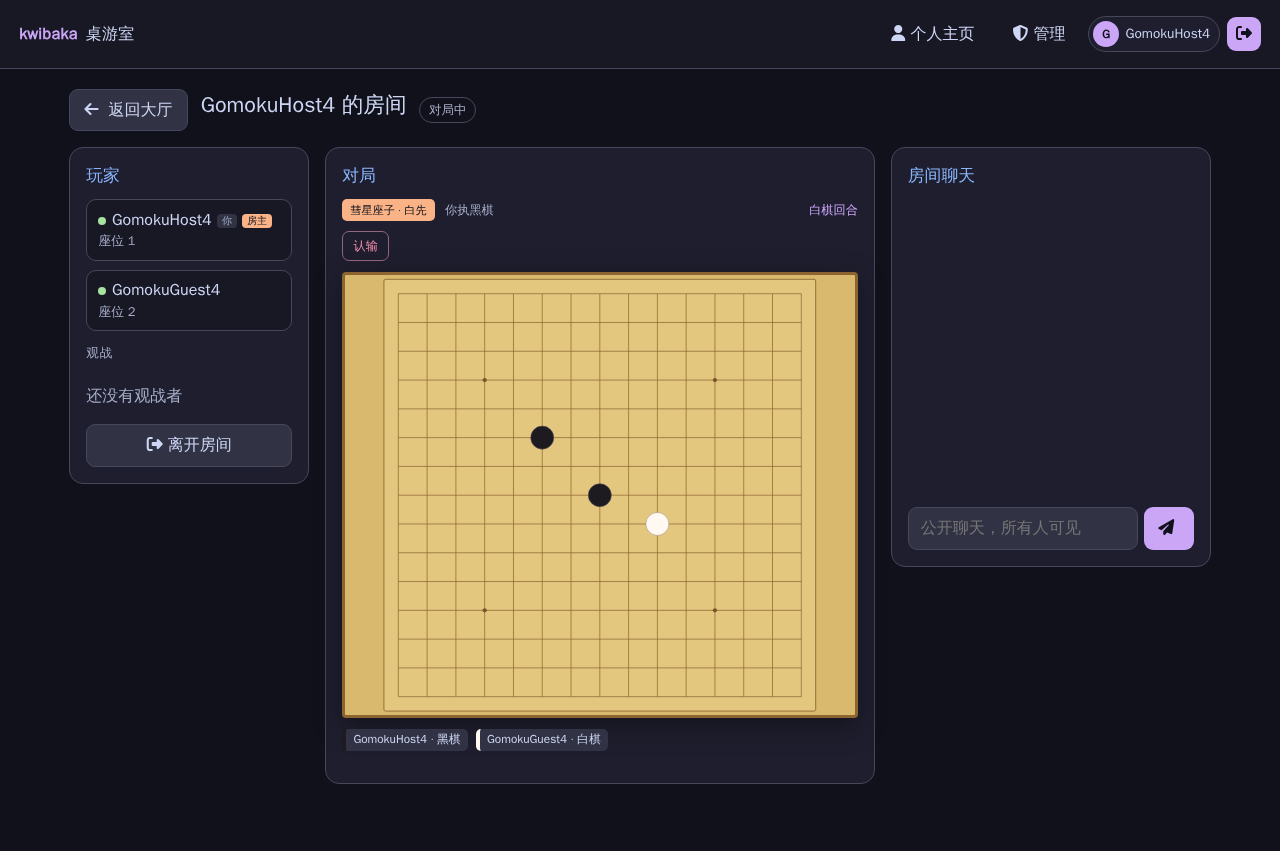
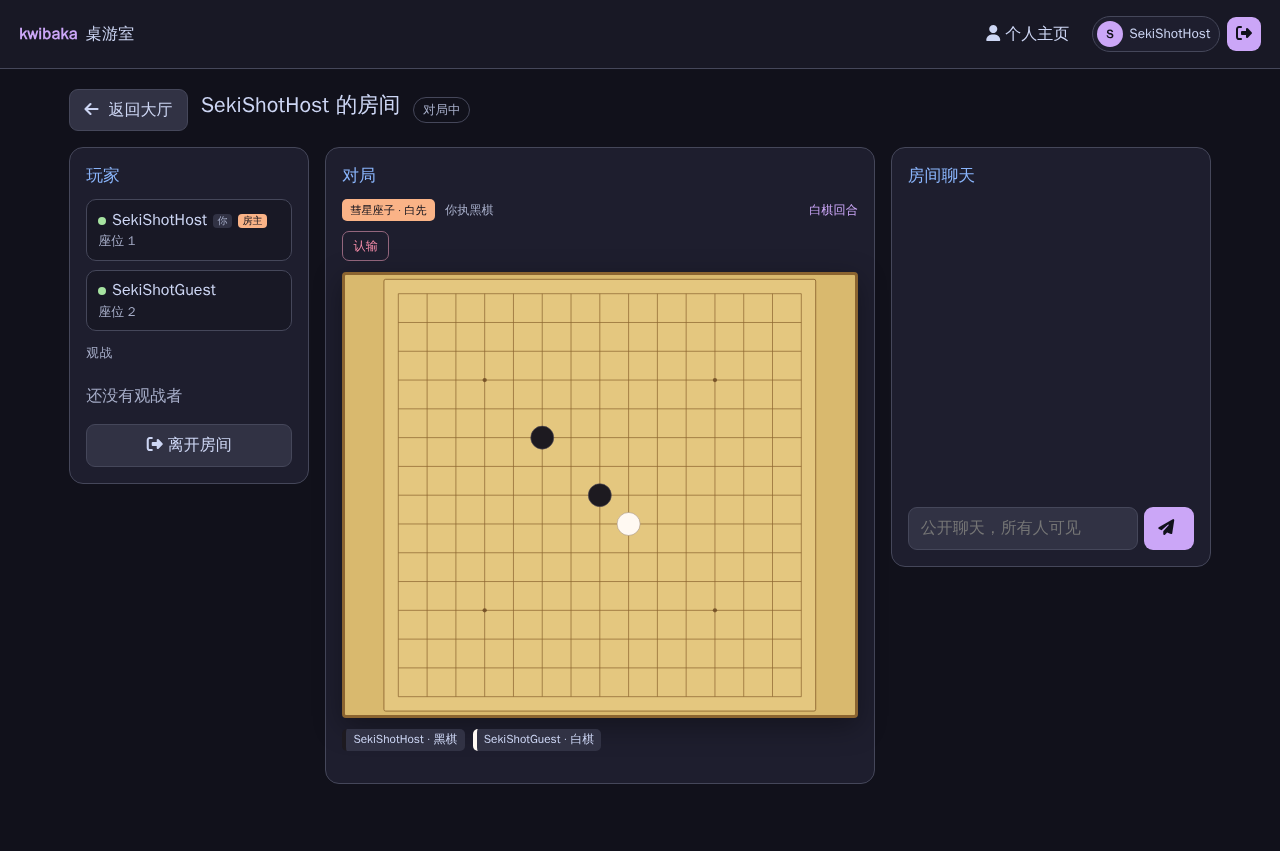
feat: add forbidden and RIF gomoku variants

diff --git a/tests/gomoku.test.ts b/tests/gomoku.test.ts
@@ -2,10 +2,13 @@ import assert from 'node:assert/strict';
 import test from 'node:test';
 import {
   GomokuMatch,
+  OPENINGS,
+  applyOpening,
   boardSize,
   drawOutcome,
   findWin,
   firstTurn,
+  forbiddenPoints,
   initialBoard,
 } from '../src/games/gomoku/game.js';
 import type { GameToPlatform, PlatformToGame, Seat } from '../src/protocol/protocol.js';
@@ -64,7 +67,7 @@ test('seki gomoku uses 15x15, has the comet stones and white moves first', () =>
   const board = initialBoard('seki');
   assert.equal(board.length, 225);
   assert.equal(board[7 * 15 + 7], 'black');
-  assert.equal(board[6 * 15 + 9], 'white');
+  assert.equal(board[6 * 15 + 8], 'white');
   assert.equal(board[9 * 15 + 5], 'black');
   assert.equal(board.filter((cell) => cell === 'black').length, 2);
   assert.equal(board.filter((cell) => cell === 'white').length, 1);
@@ -152,4 +155,66 @@ test('either player can resign in gomoku', () => {
   const result = sent.findLast((message) => message.t === 'result');
   assert.ok(result && result.t === 'result');
   assert.deepEqual((result.result as { winners: string[] }).winners, ['host']);
+});
+
+test('all 26 specified openings can be applied and lead to white move 4', () => {
+  assert.equal(OPENINGS.length, 26);
+  assert.equal(new Set(OPENINGS.map((opening) => opening.name)).size, 26);
+  for (const opening of OPENINGS) {
+    const applied = applyOpening(Array(225).fill(null), 15, opening.name);
+    assert.ok(applied, opening.name);
+    assert.equal(applied!.board.filter((cell) => cell === 'black').length, 2, opening.name);
+    assert.equal(applied!.board.filter((cell) => cell === 'white').length, 1, opening.name);
+  }
+  const { match, sent } = createMatch('forbidden');
+  match.handle({ v: 1, t: 'action', matchId: 'g1', playerId: 'host', seq: 1, actionId: 'o1', action: { type: 'opening', name: '花月' } });
+  const view = lastView(sent, 'host');
+  assert.equal(view.phase, 'playing');
+  assert.equal(view.turn, 'white');
+  assert.equal(view.openingName, '花月');
+});
+
+test('only-forbidden mode plays white 4 normally and rejects black forbidden points', () => {
+  const { match, sent } = createMatch('forbidden');
+  match.handle({ v: 1, t: 'action', matchId: 'g1', playerId: 'host', seq: 1, actionId: 'o1', action: { type: 'opening', name: '花月' } });
+  match.handle({ v: 1, t: 'action', matchId: 'g1', playerId: 'guest', seq: 2, actionId: 'w4', action: { type: 'place', index: 0 } });
+  const after = lastView(sent, 'host');
+  assert.equal(after.phase, 'playing');
+  assert.equal(after.turn, 'black');
+  const board = Array(225).fill(null);
+  for (let c = 0; c < 5; c += 1) board[c] = 'black';
+  assert.ok(forbiddenPoints(board, 15).includes(5));
+  const blackView = lastView(sent, 'host');
+  assert.equal(Array.isArray(blackView.forbidden), true);
+});
+
+test('RIF mode performs opening, three-move swap and five-move two choices', () => {
+  const { match, sent } = createMatch('rif');
+  match.handle({ v: 1, t: 'action', matchId: 'g1', playerId: 'host', seq: 1, actionId: 'o1', action: { type: 'opening', name: '花月' } });
+  assert.equal(lastView(sent, 'host').phase, 'swap');
+  // The guest is the tentative White and chooses to swap.
+  match.handle({ v: 1, t: 'action', matchId: 'g1', playerId: 'guest', seq: 2, actionId: 'swap', action: { type: 'swap' } });
+  const hostView = lastView(sent, 'host');
+  const guestView = lastView(sent, 'guest');
+  assert.equal(hostView.phase, 'playing');
+  assert.equal(hostView.you.color, 'white');
+  assert.equal(guestView.you.color, 'black');
+  assert.equal(hostView.turn, 'white');
+  // New White (host) plays white 4.
+  match.handle({ v: 1, t: 'action', matchId: 'g1', playerId: 'host', seq: 3, actionId: 'w4', action: { type: 'place', index: 0 } });
+  const offer = lastView(sent, 'guest');
+  assert.equal(offer.phase, 'fifth-offer');
+  assert.equal(offer.turn, 'black');
+  // New Black (guest) offers two points.
+  match.handle({ v: 1, t: 'action', matchId: 'g1', playerId: 'guest', seq: 4, actionId: 'f5', action: { type: 'fifth-propose', indices: [200, 201] } });
+  const choose = lastView(sent, 'host');
+  assert.equal(choose.phase, 'fifth-choose');
+  assert.deepEqual(choose.fifthOptions, [200, 201]);
+  // White chooses one; the other is not placed.
+  match.handle({ v: 1, t: 'action', matchId: 'g1', playerId: 'host', seq: 5, actionId: 'f5c', action: { type: 'fifth-choose', index: 201 } });
+  const finalView = lastView(sent, 'host');
+  assert.equal(finalView.phase, 'playing');
+  assert.equal(finalView.turn, 'white');
+  assert.equal(finalView.board[201], 'black');
+  assert.equal(finalView.board[200], null);
 });

diff --git a/web/rules/gomoku.html b/web/rules/gomoku.html
@@ -7,7 +7,7 @@ p,li{font-size:.9rem;color:#bac2de}strong{color:#cdd6f4}.muted{color:#9399b2;fon
 code{color:#f5c2e7}
 </style></head><body>
 <h1>五子棋</h1>
-<p class="muted">2 人 · 完全信息 · 观战者可发言 · 目前无禁手</p>
+<p class="muted">2 人 · 完全信息 · 观战者可发言</p>
 
 <h2>五子棋（无禁手）</h2>
 <ul>
@@ -17,7 +17,7 @@ code{color:#f5c2e7}
 <li>任意一方可以认输。</li>
 </ul>
 
-<h2>五子棋（无禁手·彗星座子）</h2>
+<h2>五子棋（无禁手，座子）</h2>
 <ul>
 <li>棋盘 <strong>15×15</strong>，无禁手。</li>
 <li>开局座子：黑棋在 <strong>H8</strong>，白棋在 <strong>J7</strong>，黑棋在 <strong>F10</strong>；座子之后由<strong>白棋先下</strong>。</li>
@@ -26,6 +26,25 @@ code{color:#f5c2e7}
 <li>任意一方可以认输。</li>
 </ul>
 
+
+<h2>五子棋（仅禁手）</h2>
+<ul>
+<li>棋盘 <strong>15×15</strong>，黑先，无座子。</li>
+<li><strong>指定开局</strong>：开局时黑方从 26 种职业开局中选择一种，前三手自动摆好；之后白方下第 4 手。</li>
+<li>黑棋禁手：长连（六子及以上）、双四、双三。黑棋落在禁手点会被拒绝；白棋无禁手。</li>
+<li>黑棋正好连成五子获胜；白棋连成五子或更多获胜。</li>
+<li>黑棋视角有“禁手提示”开关，用红叉显示当前禁手点；白棋的提示按钮不可用。</li>
+</ul>
+
+<h2>五子棋（RIF 完全规则）</h2>
+<ul>
+<li>棋盘 <strong>15×15</strong>，在“仅禁手”基础上增加三手交换和五手两打。</li>
+<li><strong>指定开局</strong>：黑方从 26 种开局中选一种，摆好前三手。</li>
+<li><strong>三手交换</strong>：白方可以选择交换黑白执子；交换后由新的白方下第 4 手。</li>
+<li><strong>五手两打</strong>：白方下完第 4 手后，黑方选择两个不同的空点作为第 5 手打点；白方选择保留其中一个，另一个不落子；然后白方下第 6 手。</li>
+<li>黑棋禁手、提示开关、胜负规则同“仅禁手”。</li>
+</ul>
+
 <h2>操作</h2>
-<p>轮到你时点击空交叉点落子；点击“认输”结束对局。当前版本不提供下一步提示。观战者可以看到完整棋盘并发言。</p>
+<p>轮到你时点击空交叉点落子；点击“认输”结束对局。观战者可以看到完整棋盘并发言。坐标列从 A 到 H 后直接跳到 J（不使用 I）。无禁手和座子玩法不提供提示；仅禁手和 RIF 仅对黑棋提供禁手提示。</p>
 </body></html>

diff --git a/web/style.css b/web/style.css
@@ -1819,3 +1819,68 @@ button.gomoku-button {
     width: 100%;
   }
 }
+
+/* Gomoku opening / fifth / forbidden UI */
+.gomoku-opening {
+  display: flex;
+  align-items: center;
+  gap: 0.5rem;
+  flex-wrap: wrap;
+  width: 100%;
+  padding: 0.45rem 0.55rem;
+  border: 1px solid var(--line);
+  border-radius: 8px;
+  background: var(--surface);
+}
+
+.gomoku-opening-select {
+  min-width: 8rem;
+  padding: 0.35rem 0.45rem;
+  color: var(--text);
+  background: var(--mantle);
+  border: 1px solid var(--line);
+  border-radius: 6px;
+}
+
+.gomoku-opening-name {
+  margin: 0;
+  color: var(--muted);
+  font-size: 0.75rem;
+}
+
+button.gomoku-button.primary {
+  color: var(--bg);
+  background: var(--accent);
+  border-color: var(--accent);
+}
+
+button.gomoku-button.active {
+  color: var(--bg);
+  background: var(--peach);
+  border-color: var(--peach);
+}
+
+button.gomoku-button:disabled {
+  cursor: not-allowed;
+  opacity: 0.45;
+}
+
+.gomoku-forbidden line {
+  stroke: #e64553;
+  stroke-width: 0.055;
+  pointer-events: none;
+}
+
+.gomoku-fifth {
+  fill: none;
+  stroke: #f9e2af;
+  stroke-width: 0.06;
+  pointer-events: none;
+}
+
+.gomoku-fifth-selected {
+  fill: none;
+  stroke: #f9e2af;
+  stroke-width: 0.1;
+  pointer-events: none;
+}

diff --git a/src/platform/game-catalog.ts b/src/platform/game-catalog.ts
@@ -4,7 +4,7 @@ import { ICE_CHAOS_GAME, ICE_GAME } from '../games/ice/metadata.js';
 import { MOCK_GAME } from '../games/mock/metadata.js';
 import { REVERSI_GAME } from '../games/reversi/metadata.js';
 import { ALENDO_GAME } from '../games/alendo/metadata.js';
-import { GOMOKU_GAME, GOMOKU_SEKI_GAME } from '../games/gomoku/metadata.js';
+import { GOMOKU_FORBIDDEN_GAME, GOMOKU_GAME, GOMOKU_RIF_GAME, GOMOKU_SEKI_GAME } from '../games/gomoku/metadata.js';
 import type { GameId, GameMetadata } from '../protocol/protocol.js';
 
 export interface GameCatalogEntry {
@@ -42,6 +42,20 @@ export const GAME_CATALOG: GameCatalogEntry[] = [
   },
   {
     metadata: GOMOKU_SEKI_GAME,
+    worker: {
+      src: path.resolve(root, 'src/games/gomoku/worker.ts'),
+      dist: path.resolve(root, 'dist/games/gomoku/worker.js'),
+    },
+  },
+  {
+    metadata: GOMOKU_FORBIDDEN_GAME,
+    worker: {
+      src: path.resolve(root, 'src/games/gomoku/worker.ts'),
+      dist: path.resolve(root, 'dist/games/gomoku/worker.js'),
+    },
+  },
+  {
+    metadata: GOMOKU_RIF_GAME,
     worker: {
       src: path.resolve(root, 'src/games/gomoku/worker.ts'),
       dist: path.resolve(root, 'dist/games/gomoku/worker.js'),

diff --git a/web/app.js b/web/app.js
@@ -284,7 +284,7 @@ function openRules(gameId) {
         ? '/rules/reversi.html'
         : gameId === 'alendo'
           ? '/rules/alendo.html'
-          : gameId === 'gomoku' || gameId === 'gomoku-seki'
+          : gameId === 'gomoku' || gameId === 'gomoku-seki' || gameId === 'gomoku-forbidden' || gameId === 'gomoku-rif'
             ? '/rules/gomoku.html'
             : '/rules/mock-ttt.html';
   $('rules-title').textContent =
@@ -294,7 +294,7 @@ function openRules(gameId) {
         ? '黑白棋 · 规则'
         : gameId === 'alendo'
           ? '阿尔林铎棋 · 规则'
-          : gameId === 'gomoku' || gameId === 'gomoku-seki'
+          : gameId === 'gomoku' || gameId === 'gomoku-seki' || gameId === 'gomoku-forbidden' || gameId === 'gomoku-rif'
             ? '五子棋 · 规则'
             : '规则';
   $('rules-frame').src = page;

diff --git a/README.md b/README.md
@@ -32,9 +32,13 @@ process, and each game implementation is versioned in its own git repository.
 - 五子棋 / Gomoku:
   - 11×11 free-style, no forbidden moves, black first; a full-board draw is a
     white win.
-  - 15×15 free-style comet-seki setup (black H8, white J7, black F10), white first; a
-    full-board draw is a loss for both.
-  - No next-move hint UI.
+  - 15×15 free-style comet-seki setup (black H8, white J7, black F10), white
+    first; a full-board draw is a loss for both.
+  - 15×15 specified-opening forbidden mode: black-only overline/double-four/
+    double-three forbidden points with a black-only hint toggle.
+  - 15×15 RIF: specified opening, black forbidden points, three-move swap and
+    five-move two choices.
+  - Coordinates skip I (A-H, J-P). Free/seki have no hint UI.
 - Mock tic-tac-toe worker as the reference implementation.
 - Self-contained FontAwesome Free assets, no CDN dependency.
 
@@ -47,6 +51,8 @@ process, and each game implementation is versioned in its own git repository.
 ![五子棋](docs/assets/gomoku.png)
 
 ![彗星座子五子棋](docs/assets/gomoku-seki.png)
+
+![RIF 五子棋](docs/assets/gomoku-rif.png)
 
 ![Profile](docs/assets/profile.png)
 
@@ -77,7 +83,7 @@ src/games/ice/       git submodule: kwibaka-game-ice repository
 src/games/mock/      git submodule: kwibaka-game-mock-ttt repository
 src/games/reversi/   git submodule: kwibaka-game-reversi repository
 src/games/alendo/    git submodule: kwibaka-game-alendo repository
-src/games/gomoku/    git submodule: kwibaka-game-gomoku repository (two catalog ids)
+src/games/gomoku/    git submodule: kwibaka-game-gomoku repository (four catalog ids)
 src/cli/             administrator bootstrap CLI
 web/                 platform shell, styles, rules pages, generated game UI
 scripts/             sync-games and ice fuzzer

diff --git a/docs/en/interfaces.md b/docs/en/interfaces.md
@@ -196,8 +196,11 @@ the same worker. `reversi` and `alendo` are two-player complete-information game
 color is a room setting, and `spectatorChat` is enabled. `alendo` uses a
 96-triangle board from Hypergryph's 《来自星尘》 and always shows legal-move
 hints. The `gomoku` / `gomoku-seki` catalog entries share one engine: 11×11
-free-style (draw -> white win) and 15×15 comet-seki with black H8 / white J7 / black F10
-and white to move (draw -> both lose). Gomoku has no hint UI.
+free-style (draw -> white win) and 15×15 comet-seki with black H8 / white J7 /
+black F10 and white to move (draw -> both lose). `gomoku-forbidden` adds
+specified openings and black-only overcalls (overline/double-four/double-three)
+with a black-only hint toggle; `gomoku-rif` adds three-move swap and five-move
+two choices. Free/seki have no hint UI; coordinates use A-H, J-P (I skipped).
 
 ### Versioning
 

diff --git a/docs/zh-CN/interfaces.md b/docs/zh-CN/interfaces.md
@@ -185,7 +185,10 @@ src/games/<name>/
 和 `ice-chaos`（混沌），两者指向同一个 worker。`reversi` 与 `alendo` 是双人完全信息游戏，房主执子属于房间设置，观战聊天开启。
 `alendo` 使用 Hypergryph《来自星尘》的 96 格三角棋盘，并强制显示合法落点提示。
 `gomoku` / `gomoku-seki` 共用一个引擎：11×11 无禁手（平局白胜）和 15×15
-彗星座子（黑 H8、白 J7、黑 F10，白先；平局双方均败）。五子棋不提供提示 UI。
+彗星座子（黑 H8、白 J7、黑 F10，白先；平局双方均败）。`gomoku-forbidden`
+增加指定开局和黑棋禁手（长连/双四/双三），并只给黑棋提供可开关的禁手提示；
+`gomoku-rif` 再增加三手交换和五手两打。无禁手/座子不提供提示；坐标跳过 I
+（A-H、J-P）。
 
 ### 版本管理
 

diff --git a/docs/zh-CN/testing.md b/docs/zh-CN/testing.md
@@ -26,7 +26,8 @@ npm test
 - 黑白棋合法落子/翻子、房主执子分配、完整对局终局、认输，以及真实
   platform/worker 集成测试；
 - 阿尔林铎棋 96 格三角棋盘/条带、六枚座子、房主执子、随机完整对局终局、认输；
-- 五子棋 11×11/15×15、座子与白先、五连/长连判定、平局规则和认输。
+- 五子棋 11×11/15×15、座子与白先、五连/长连判定、平局规则和认输；
+- 指定开局、黑棋禁手点、黑棋专用提示状态、三手交换和五手两打流程。
 
 测试使用内存 SQLite 和真实 worker 子进程，不需要外部服务。
 

diff --git a/docs/en/testing.md b/docs/en/testing.md
@@ -33,6 +33,8 @@ The suite covers:
   full-game termination, and resignation.
 - Gomoku 11×11/15×15 setup, win detection (including overlines), white
   first in seki, draw outcomes, and resignation.
+- Gomoku specified openings, forbidden-point detection, black-only hint state,
+  three-move swap and five-move two-choice flow.
 
 `npm test` uses an in-memory SQLite database and starts real worker child
 processes; no external services are needed.
